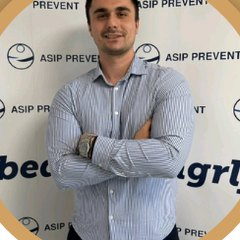
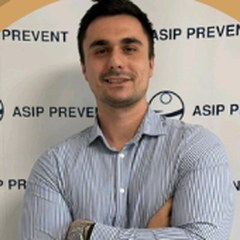
Slika Stefana Novakovica: cela glava u krugu

diff --git a/predavanja.html b/predavanja.html
@@ -451,7 +451,7 @@
       </div>
     </div>
     <div class="utisci-foto">
-      <figure class="utisak-foto"><span class="vrsta">Radionica</span><blockquote>„Dobio sam konkretne alate primenljive u praksi i nekoliko pravih „aha” momenata. Shvatio sam da često problem nije u ljudima, već u neusklađenim ciljevima koji timove vuku u različitim pravcima. Ključ je u ranom prepoznavanju i usklađivanju. Hvala Stefanu na sjajnom pristupu!”</blockquote><figcaption><img src="img/utisci/stefan-novakovic.jpg" alt="Stefan Novaković" loading="lazy" width="56" height="56"><div><strong>Stefan Novaković</strong><span>šef sektora zaštite od požara i eksplozija, <b>Asip Prevent</b></span></div></figcaption></figure>
+      <figure class="utisak-foto"><span class="vrsta">Radionica</span><blockquote>„Dobio sam konkretne alate primenljive u praksi i nekoliko pravih „aha” momenata. Shvatio sam da često problem nije u ljudima, već u neusklađenim ciljevima koji timove vuku u različitim pravcima. Ključ je u ranom prepoznavanju i usklađivanju. Hvala Stefanu na sjajnom pristupu!”</blockquote><figcaption><img src="img/utisci/stefan-novakovic.jpg?v=2" alt="Stefan Novaković" loading="lazy" width="56" height="56"><div><strong>Stefan Novaković</strong><span>šef sektora zaštite od požara i eksplozija, <b>Asip Prevent</b></span></div></figcaption></figure>
       <figure class="utisak-foto"><span class="vrsta">Radionica</span><blockquote>„Svaka tvoja radionica ili webinar su izuzetno korisni i svaki nastup je zanimljiv na svoj način. Dopada mi se tvoj pristup. Alat koji si ponudio je jedinstven i svakako ga treba testirati u organizacionom okruženju. Verujem da radi! 😊”</blockquote><figcaption><img src="img/utisci/ivana-dragas.jpg" alt="Ivana Dragaš" loading="lazy" width="56" height="56"><div><strong>Ivana Dragaš</strong><span>globalna menadžerka portfolija, <b>STADA Group</b></span></div></figcaption></figure>
       <figure class="utisak-foto"><span class="vrsta">Management 3.0 radionica</span><blockquote>„Stefan je odlično obučen agilni kouč i radionica kod njega teče glatko. Podstiče interakciju i otvorenu komunikaciju.”</blockquote><figcaption><img src="img/utisci/nikola-solunac.jpg" alt="Nikola Solunac" loading="lazy" width="56" height="56"><div><strong>Nikola Solunac</strong><span>viši product manager, <b>Telesign</b></span></div></figcaption></figure>
       <figure class="utisak-foto"><span class="vrsta">Management 3.0 radionica</span><blockquote>„Lako razumljivo. Uvek otvoren za povratne informacije, i trudio se da izađe u susret potrebama svakog učesnika.”</blockquote><figcaption><img src="img/utisci/iro-papadopoulou.jpg" alt="Iro Papadopoulou" loading="lazy" width="56" height="56"><div><strong>Iro Papadopoulou</strong><span>agilna koučica, <b>Deutsche Telekom</b></span></div></figcaption></figure>

diff --git a/rezultati.html b/rezultati.html
@@ -142,7 +142,7 @@
     <span class="nadnaslov">Utisci sa radionica</span>
     <h2>Šta kažu ljudi koji su bili na radionicama</h2>
     <div class="utisci-foto">
-      <figure class="utisak-foto"><blockquote>„Dobio sam konkretne alate primenljive u praksi i nekoliko pravih „aha” momenata. Shvatio sam da često problem nije u ljudima, već u neusklađenim ciljevima koji timove vuku u različitim pravcima.”</blockquote><figcaption><img src="img/utisci/stefan-novakovic.jpg" alt="Stefan Novaković" loading="lazy" width="56" height="56"><div><strong>Stefan Novaković</strong><span>šef sektora zaštite od požara i eksplozija, <b>Asip Prevent</b></span></div></figcaption></figure>
+      <figure class="utisak-foto"><blockquote>„Dobio sam konkretne alate primenljive u praksi i nekoliko pravih „aha” momenata. Shvatio sam da često problem nije u ljudima, već u neusklađenim ciljevima koji timove vuku u različitim pravcima.”</blockquote><figcaption><img src="img/utisci/stefan-novakovic.jpg?v=2" alt="Stefan Novaković" loading="lazy" width="56" height="56"><div><strong>Stefan Novaković</strong><span>šef sektora zaštite od požara i eksplozija, <b>Asip Prevent</b></span></div></figcaption></figure>
       <figure class="utisak-foto"><blockquote>„Svaka tvoja radionica ili webinar su izuzetno korisni i svaki nastup je zanimljiv na svoj način. Dopada mi se tvoj pristup. Alat koji si ponudio je jedinstven i svakako ga treba testirati u organizacionom okruženju.”</blockquote><figcaption><img src="img/utisci/ivana-dragas.jpg" alt="Ivana Dragaš" loading="lazy" width="56" height="56"><div><strong>Ivana Dragaš</strong><span>globalna menadžerka portfolija, <b>STADA Group</b></span></div></figcaption></figure>
       <figure class="utisak-foto"><blockquote>„Stefan je na jednostavan i jasan način predstavio vizuelni alat drvo ciljeva, koji pomaže da se otkriju ključni izazovi i sukobi u timovima i organizacijama. Posebno mi se dopalo kako uz pomoć boja i semafor sistema možemo sagledati stanje i prioritete.”</blockquote><figcaption><img src="img/utisci/aleksandra-kovacevic.jpg" alt="Aleksandra Kovačević" loading="lazy" width="56" height="56"><div><strong>Aleksandra Kovačević</strong><span>poslovna konsultantkinja, <b>Fail Coach Adria</b></span></div></figcaption></figure>
       <figure class="utisak-foto"><span class="vrsta">Management 3.0 radionica</span><blockquote>„Stefan je odlično obučen agilni kouč i radionica kod njega teče glatko. Podstiče interakciju i otvorenu komunikaciju.”</blockquote><figcaption><img src="img/utisci/nikola-solunac.jpg" alt="Nikola Solunac" loading="lazy" width="56" height="56"><div><strong>Nikola Solunac</strong><span>viši product manager, <b>Telesign</b></span></div></figcaption></figure>

diff --git a/mapa-uskih-grla.html b/mapa-uskih-grla.html
@@ -146,7 +146,7 @@
     <p class="uvod">Utisci učesnika mojih radionica i treninga. Na treninzima za Mokrogorsku poslovnu školu prosečna ocena predavača mi je 4,8 od 5.</p>
     <div class="utisci-foto">
       <figure class="utisak-foto"><blockquote>„Stefan je na jednostavan i jasan način predstavio vizuelni alat drvo ciljeva, koji pomaže da se otkriju ključni izazovi i sukobi u timovima i organizacijama. Posebno mi se dopalo kako uz pomoć boja i semafor sistema možemo sagledati stanje i prioritete.”</blockquote><figcaption><img src="img/utisci/aleksandra-kovacevic.jpg" alt="Aleksandra Kovačević" loading="lazy" width="56" height="56"><div><strong>Aleksandra Kovačević</strong><span>poslovna konsultantkinja, <b>Fail Coach Adria</b></span></div></figcaption></figure>
-      <figure class="utisak-foto"><blockquote>„Dobio sam konkretne alate primenljive u praksi i nekoliko pravih „aha” momenata. Shvatio sam da često problem nije u ljudima, već u neusklađenim ciljevima koji timove vuku u različitim pravcima.”</blockquote><figcaption><img src="img/utisci/stefan-novakovic.jpg" alt="Stefan Novaković" loading="lazy" width="56" height="56"><div><strong>Stefan Novaković</strong><span>šef sektora zaštite od požara i eksplozija, <b>Asip Prevent</b></span></div></figcaption></figure>
+      <figure class="utisak-foto"><blockquote>„Dobio sam konkretne alate primenljive u praksi i nekoliko pravih „aha” momenata. Shvatio sam da često problem nije u ljudima, već u neusklađenim ciljevima koji timove vuku u različitim pravcima.”</blockquote><figcaption><img src="img/utisci/stefan-novakovic.jpg?v=2" alt="Stefan Novaković" loading="lazy" width="56" height="56"><div><strong>Stefan Novaković</strong><span>šef sektora zaštite od požara i eksplozija, <b>Asip Prevent</b></span></div></figcaption></figure>
       <figure class="utisak-foto"><blockquote>„Drvo ciljeva je odličan alat. Veoma je jasno, pregledno i uključuje sve aspekte poslovnog sistema. Jako mi se dopada.”</blockquote><figcaption><img src="img/utisci/sladjana-imamovic.jpg" alt="Slađana Imamović" loading="lazy" width="56" height="56"><div><strong>Slađana Imamović</strong><span>osnivačica, <b>Raven</b></span></div></figcaption></figure>
     </div>
   </div>
